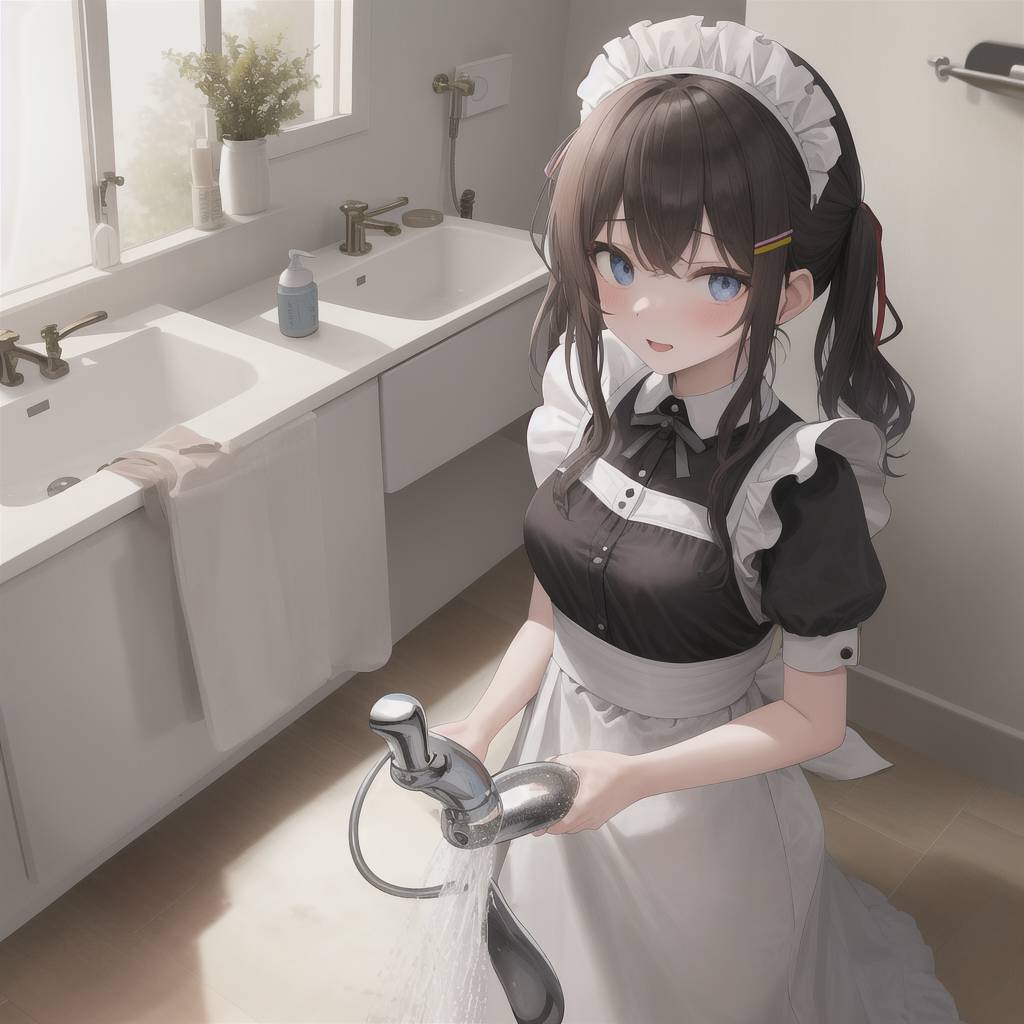
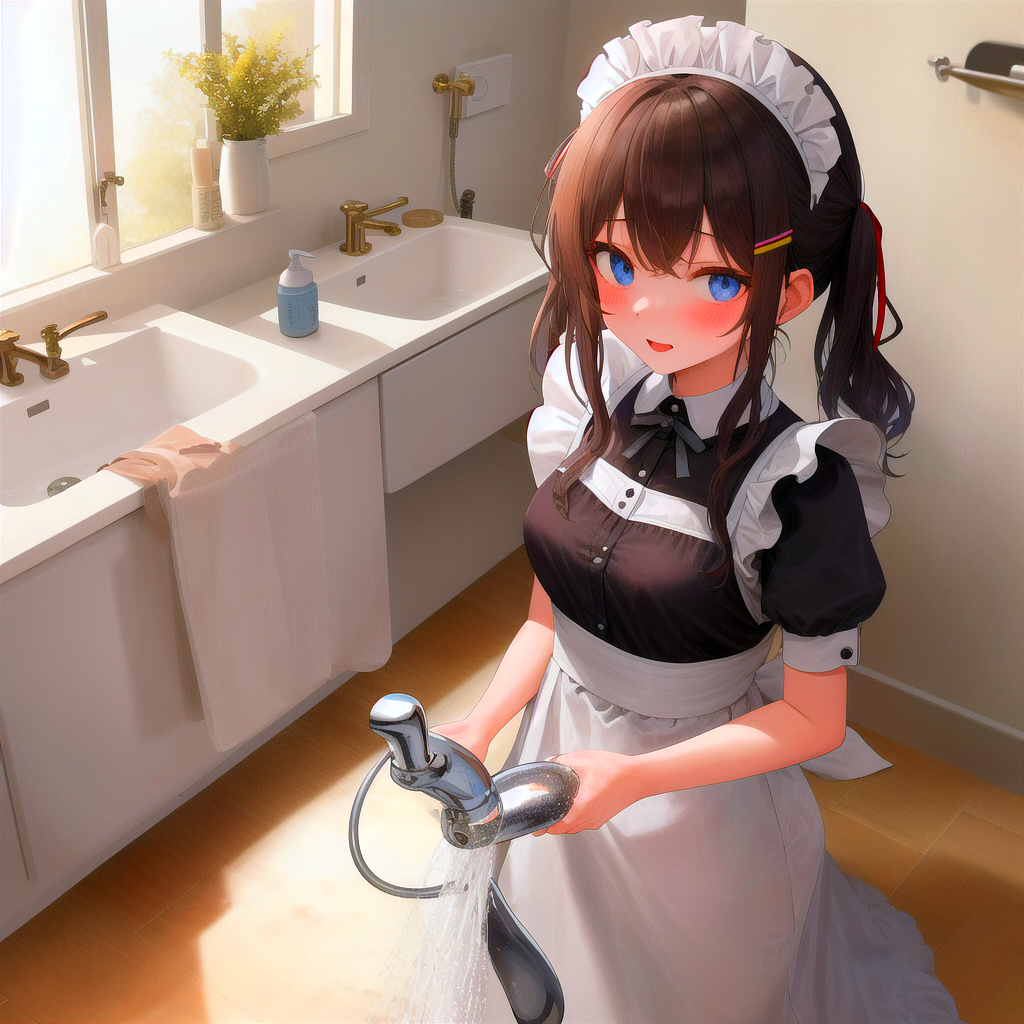
CSS文档更新

diff --git a/web-project/test-site/styles/style.css b/web-project/test-site/styles/style.css
@@ -1,0 +1,30 @@
+html {
+    font-size: 10px;
+    font-family: 'ZCOOL KuaiLe', sans-serif;
+    background-color: #00539F;
+}
+h1 {
+    margin: 0;
+    padding: 20px 0;
+    color: #00539F;
+    text-shadow: 3px 3px 1px black; /* 水平偏移值 垂直偏移值 模糊半径 */
+    font-size: 60px;
+    text-align: center;
+}
+p,
+li {
+    font-size: 16px;
+    line-height: 2;     /* 行高 参数如果是数字，就是当前字体大小乘上数字 */
+    letter-spacing: 1px;    /* 字间距 */
+}
+body {
+    width: 600px;
+    margin: 0 auto; /* 外边距，围绕元素外部的空间 参数顺序：上边距 左右边距 */
+    background-color: #FF9500;
+    padding: 0 20px 20px 20px;  /* 内边距，围绕着内容（比如段落）的空间 参数顺序：上右下左 */
+    border: 5px solid black;    /* 边框，紧接着内边距的线 参数顺序：宽度 实线 */
+}
+img {
+    display: block; /*  设置block属性 */
+    margin: auto;
+}

diff --git a/web-project/test-site/index.html b/web-project/test-site/index.html
@@ -3,9 +3,14 @@
   <head>
     <meta charset="utf-8">
     <title>My test page</title>
+    <link href="styles/style.css" rel="stylesheet">
+    <link rel="preconnect" href="https://fonts.googleapis.com">
+    <link rel="preconnect" href="https://fonts.gstatic.com" crossorigin>
+    <link href="https://fonts.googleapis.com/css2?family=ZCOOL+KuaiLe&display=swap" rel="stylesheet">
   </head>
   <body>
-    <img src="images/washing-maid.png" alt="AI生成的洗碗女仆图片">
+    <h1>This site is really fun!</h1>
+    <img src="images/washing-maid.png" style="max-width: 200px;max-height: 200px;" alt="AI生成的洗碗女仆图片">
     <p>最有趣的洗碗视频网站，在这里你可以：</p>
     <ul>
       <li>观看在线的洗碗小视频和小电影。</li>

diff --git a/README.md b/README.md
@@ -197,7 +197,7 @@ ordered list
 
 ### 扩展功能
 
-如果需要更多功能，可以参考[使用 HTML 组织网站内容 - 学习 Web 开发 | MDN (mozilla.org)](https://developer.mozilla.org/zh-CN/docs/Learn/HTML)
+如果需要更多功能，可以参考[使用 HTML 组织网站内容](https://developer.mozilla.org/zh-CN/docs/Learn/HTML)
 
 里面当然包含了小视频和小电影的嵌入。
 
@@ -207,3 +207,68 @@ ordered list
 
 层叠样式表（**C**ascading **S**tyle **S**heet，简称：CSS）
 
+css文件需要和html关联，在html中通过元素`<link>`，其中包含属性href和rel，前者为文件路径，后者为两者关系，这里用的stylesheet，表示链接的是样式表文件。
+
+CSS中，每个样式由选择器selector、声明declaration、属性properties、属性的值组成。
+
+选择器是指定的html元素，比如要修改`<p>`的颜色，选择器就是p，声明包含属性和属性的值。
+
+```css
+p {
+  color: red;
+}
+
+```
+
+  更多选择器可参考https://developer.mozilla.org/en-US/docs/Learn/CSS/Building_blocks/Selectors
+
+字体使用之前在选定内容阶段推荐的网站中生成的代码，插入到html中的`<head>`中，然后还有一个css代码，插入选择器为html中。
+
+我的css文件及相关注释说明：
+
+```css
+html {
+    font-size: 10px;
+    font-family: 'ZCOOL KuaiLe', sans-serif;
+    background-color: #00539F;
+}
+h1 {
+    margin: 0;
+    padding: 20px 0;
+    color: #00539F;
+    text-shadow: 3px 3px 1px black; /* 水平偏移值 垂直偏移值 模糊半径 */
+    font-size: 60px;
+    text-align: center;
+}
+p,
+li {
+    font-size: 16px;
+    line-height: 2;     /* 行高 参数如果是数字，就是当前字体大小乘上数字 */
+    letter-spacing: 1px;    /* 字间距 */
+}
+body {
+    width: 600px;
+    margin: 0 auto; /* 外边距，围绕元素外部的空间 参数顺序：上边距 左右边距 */
+    background-color: #FF9500;
+    padding: 0 20px 20px 20px;  /* 内边距，围绕着内容（比如段落）的空间 参数顺序：上右下左 */
+    border: 5px solid black;    /* 边框，紧接着内边距的线 参数顺序：宽度 实线 */
+}
+img {
+    display: block; /*  设置block属性 */
+    margin: auto;
+}
+```
+
+
+
+这一章节结束后我做出来的页面效果是：
+
+<img src="photo_src/demonstration1.png" alt="效果演示" style="zoom:30%;" />
+
+padding部分的颜色其实可以和图片中的白色背景做一个融合，然后margin部分的颜色可以和女仆的黑色衣服做一个融合。
+
+我使用affinity photo 2的颜色拾取工具来确定颜色通道，选择某个点后，在右边栏找到颜色，比如背后的墙壁颜色的RGB是214 196 174，还有黑色衣服是18 14 14，那么在CSS中为rgb(18, 14, 14)
+
+不过我这个版本是通过了四个自动进行调整过的（自动色阶、对比度、白平衡、颜色），此文档中的该图片就是被调整后的，之后可以按照图片内容进行进一步修改，能使整个网站页面更加一致。
+
+[参考教程](https://affinity.help/photo2/zh-Hans.lproj/index.html?page=pages/Clr/ClrProfiles.html?title=颜色管理)
